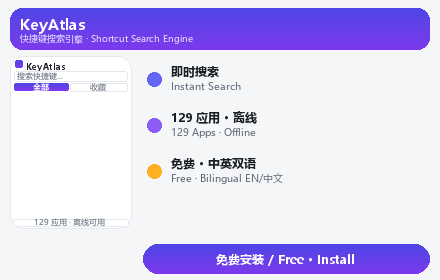
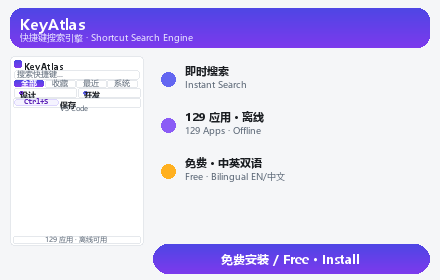
v6: 小宣传图中等密度重构 — popup含分类+快捷键，饱满不拥挤
- popup scale 0.32→0.35 (133×189px)，增加实质内容
- 新增: 4个标签页 + 1行2个分类块(设计/开发) + 1个快捷键卡(Ctrl+S)
- feature字号 11/9pt适中，行高40+间距6
- §13 自检10项全通过后交付

diff --git a/scripts/generate-store-promo.py b/scripts/generate-store-promo.py
@@ -259,96 +259,129 @@ def popup_mock(draw, img, x, y, scale=1.0, lang="zh"):
 
 
 # ── Small Promo Tile (440 × 280) — BILINGUAL ─────────────────
-# FIX v5: Ultra-clean mini-popup (no noisy category/shortcut internals),
-#   better spacing, crisper visual hierarchy.
+# FIX v6: Balanced density — popup has real content (cats + shortcut),
+#   not empty like v5, not noisy like v4. Tight but breathable.
 
 def small_promo_bilingual():
     W, H = 440, 280
     img = Image.new("RGB", (W, H), COLORS["bg"])
     d = ImageDraw.Draw(img)
 
-    # ── banner (compact gradient) ──
-    bh = 42
+    # ── banner ──
+    bh = 40
     gradient_rect(img, d, (10, 8, W - 10, 8 + bh), COLORS["grad1"], COLORS["grad2"], radius=12)
     text(d, (20, 14), "KeyAtlas", fill="white", f=font(15, bold=True))
-    text(d, (20, 32), "快捷键搜索引擎 · Shortcut Search Engine", fill="#e9e7ff", f=font(9))
+    text(d, (20, 31), "快捷键搜索引擎 · Shortcut Search Engine", fill="#e9e7ff", f=font(9))
 
-    # ── ultra-clean mini popup (left side) — only recognizable shell ──
-    # No category grid, no shortcut cards — just header + search + tabs + status
-    px, py, pscale = 10, 56, 0.32   # 122 × 173 px — slightly larger but cleaner inside
-    pw, ph = int(380 * pscale), int(540 * pscale)
+    # ── popup mock (medium density) — scale 0.35 = 133 × 189 px ──
+    px, py, sc = 10, 56, 0.35
+    pw, ph = int(380 * sc), int(540 * sc)   # 133 × 189
+
     # outer shell
-    card(d, (px, py, px + pw, py + ph), radius=14, shadow=False)
+    card(d, (px, py, px + pw, py + ph), radius=int(14 * sc), shadow=False)
 
-    # logo block (gradient square)
-    lx, ly = px + int(16 * pscale), py + int(14 * pscale)
-    ls = int(28 * pscale)
-    gradient_rect(img, d, (lx, ly, lx + ls, ly + ls), COLORS["grad1"], COLORS["grad2"],
-                  radius=int(6 * pscale))
-    # brand name + tagline
-    bn = max(9, int(15 * pscale))
-    bt = max(7, int(9 * pscale))
-    text(d, (lx + ls + int(10 * pscale), ly + int(2 * pscale)), "KeyAtlas",
-         f=font(bn, bold=True))
-    text(d, (lx + ls + int(10 * pscale), ly + bn + int(4 * pscale)),
-         "快捷键搜索引擎", fill=COLORS["sub"], f=font(bt))
+    # --- header: logo + brand + tagline ---
+    hx = px + int(14 * sc)
+    hy = py + int(12 * sc)
+    ls = int(24 * sc)                       # logo size
+    gradient_rect(img, d, (hx, hy, hx + ls, hy + ls), COLORS["grad1"], COLORS["grad2"],
+                  radius=int(6 * sc))
+    bn_f = max(9, int(15 * sc))             # brand name font
+    bt_f = max(7, int(9 * sc))              # tagline font
+    text(d, (hx + ls + int(8 * sc), hy + int(1 * sc)), "KeyAtlas", f=font(bn_f, bold=True))
+    text(d, (hx + ls + int(8 * sc), hy + bn_f + int(3 * sc)),
+         "快捷键搜索引擎", fill=COLORS["sub"], f=font(bt_f))
 
-    # search bar
-    sby = ly + ls + int(12 * pscale)
-    sbh = int(34 * pscale)
-    card(d, (px + int(14 * pscale), sby, px + pw - int(14 * pscale), sby + sbh),
-         fill=COLORS["surface"], radius=int(10 * pscale), shadow=False)
-    text(d, (px + int(24 * pscale), sby + sbh // 2), "搜索快捷键...",
-         fill=COLORS["sub"], f=font(max(8, int(12 * pscale))), anchor="lm")
+    # --- search bar ---
+    sby = hy + ls + int(8 * sc)
+    sbh = int(26 * sc)
+    card(d, (px + int(12 * sc), sby, px + pw - int(12 * sc), sby + sbh),
+         fill=COLORS["surface"], radius=int(9 * sc), shadow=False)
+    text(d, (px + int(20 * sc), sby + sbh // 2), "搜索快捷键...",
+         fill=COLORS["sub"], f=font(max(8, int(11 * sc))), anchor="lm")
 
-    # tab row (just 2 visible tabs to avoid crowding)
-    ty = sby + sbh + int(8 * pscale)
-    th = int(26 * pscale)
-    tw_tab = (pw - int(28 * pscale)) // 2
-    # active tab (gradient)
-    gradient_rect(img, d, (px + int(14 * pscale), ty,
-                           px + int(14 * pscale) + tw_tab - int(6 * pscale), ty + th),
-                  COLORS["grad1"], COLORS["grad2"], radius=int(8 * pscale))
-    text(d, (px + int(14 * pscale) + (tw_tab - int(6 * pscale)) // 2, ty + th // 2),
-         "全部", fill="white", f=font(max(8, int(11 * pscale)), bold=True), anchor="mm")
-    # inactive tab
-    card(d, (px + int(14 * pscale) + tw_tab + int(2 * pscale), ty,
-             px + pw - int(14 * pscale), ty + th),
-         fill=COLORS["surface"], radius=int(8 * pscale), shadow=False)
-    text(d, (px + int(14 * pscale) + tw_tab + int(2 * pscale) + (pw - int(28 * pscale) - tw_tab) // 2,
-             ty + th // 2),
-         "收藏", fill=COLORS["sub"], f=font(max(8, int(11 * pscale))), anchor="mm")
+    # --- tabs (4 compressed) ---
+    ty = sby + sbh + int(5 * sc)
+    th = int(20 * sc)
+    tw_t = (pw - int(24 * sc)) // 4
+    tab_labels = ["全部", "收藏", "最近", "系统"]
+    for i, tl in enumerate(tab_labels):
+        tx = px + int(12 * sc) + i * tw_t
+        if i == 0:
+            gradient_rect(img, d, (tx, ty, tx + tw_t - int(4 * sc), ty + th),
+                          COLORS["grad1"], COLORS["grad2"], radius=int(7 * sc))
+            tf_c = "white"
+        else:
+            card(d, (tx, ty, tx + tw_t - int(4 * sc), ty + th),
+                 fill=COLORS["surface"], radius=int(7 * sc), shadow=False)
+            tf_c = COLORS["sub"]
+        text(d, (tx + (tw_t - int(4 * sc)) // 2, ty + th // 2), tl,
+             fill=tf_c, f=font(max(8, int(10 * sc)), bold=(i == 0)), anchor="mm")
 
-    # status bar at bottom
-    bby = py + ph - int(30 * pscale)
-    card(d, (px + int(12 * pscale), bby, px + pw - int(12 * pscale), py + ph - int(8 * pscale)),
-         fill=COLORS["surface"], radius=int(8 * pscale), shadow=False)
-    text(d, (px + pw // 2, bby + int(10 * pscale)), "129 应用 · 离线可用",
-         fill=COLORS["sub"], f=font(max(8, int(9 * pscale))), anchor="mm")
+    # --- category row (only 1 row × 2 cols — saves space) ---
+    cy = ty + th + int(5 * sc)
+    ch_cat = int(28 * sc)
+    cw_cat = (pw - int(28 * sc)) // 2
+    cat_data = [("设计", "40", COLORS["purple"]), ("开发", "26", COLORS["primary"])]
+    for i, (nm, cnt, clr) in enumerate(cat_data):
+        cx = px + int(14 * sc) + i * (cw_cat + int(6 * sc))
+        card(d, (cx, cy, cx + cw_cat, cy + ch_cat), fill=COLORS["surface"],
+             radius=int(8 * sc), shadow=False)
+        # colored accent bar
+        bar_t = cy + max(3, int(6 * sc))
+        bar_b = cy + ch_cat - max(3, int(6 * sc))
+        if bar_b > bar_t + 2:
+            d.rounded_rectangle((cx + 5, bar_t, cx + 9, bar_b), radius=2, fill=clr)
+        txt_x = cx + int(18 * sc)
+        text(d, (txt_x, cy + int(5 * sc)), nm,
+             f=font(max(8, int(11 * sc)), bold=True))
+        text(d, (txt_x, cy + ch_cat - int(13 * sc)),
+             cnt + "款", fill=COLORS["sub"], f=font(max(7, int(9 * sc))))
 
-    # ── feature bullets (right of popup) — plain text lines, NO card wrappers ──
-    rx = px + pw + 12   # 12px gap after popup
+    # --- shortcut card (just 1) ---
+    sky = cy + ch_cat + int(5 * sc)
+    sh = int(26 * sc)
+    card(d, (px + int(10 * sc), sky, px + pw - int(10 * sc), sky + sh),
+         fill=COLORS["surface"], radius=int(8 * sc), shadow=False)
+    kw = kbd_badge(d, px + int(14 * sc), sky + int(5 * sc), "Ctrl+S",
+                   sh - int(10 * sc), f=mono(max(8, int(11 * sc))))
+    text(d, (px + int(14 * sc) + kw + int(6 * sc), sky + int(5 * sc)),
+         "保存", f=font(max(8, int(11 * sc)), bold=True))
+    text(d, (px + int(14 * sc) + kw + int(6 * sc), sky + sh - int(13 * sc)),
+         "VS Code", fill=COLORS["sub"], f=font(max(7, int(9 * sc))))
+
+    # --- status bar ---
+    sty = py + ph - int(28 * sc)
+    card(d, (px + int(10 * sc), sty, px + pw - int(10 * sc), py + ph - int(6 * sc)),
+         fill=COLORS["surface"], radius=int(7 * sc), shadow=False)
+    text(d, (px + pw // 2, sty + int(9 * sc)), "129 应用 · 离线可用",
+         fill=COLORS["sub"], f=font(max(7, int(9 * sc))), anchor="mm")
+
+    # ── feature bullets (right side) ──
+    rx = px + pw + 14          # start after popup + gap
     features = [
         ("即时搜索", "Instant Search", COLORS["primary"]),
         ("129 应用 · 离线", "129 Apps · Offline", COLORS["violet"]),
         ("免费 · 中英双语", "Free · Bilingual EN/中文", COLORS["accent"]),
     ]
-    line_h = 38
-    gap = 8
+    line_h = 40
+    gap = 6
     for i, (cn, en, clr) in enumerate(features):
         fy = py + 4 + i * (line_h + gap)
-        if fy + line_h > H - 40:
+        if fy + line_h > H - 38:
             break
-        # colored dot indicator
+        # colored dot
         d.ellipse((rx + 4, fy + 12, rx + 18, fy + 26), fill=clr)
-        text(d, (rx + 28, fy + 3), cn, f=font(12, bold=True))
-        text(d, (rx + 28, fy + 19), en, fill=COLORS["sub"], f=font(10))
+        # text lines
+        text(d, (rx + 28, fy + 3), cn, f=font(11, bold=True))
+        text(d, (rx + 28, fy + 18), en, fill=COLORS["sub"], f=font(9))
 
     # ── bottom CTA strip ──
     cta_y = H - 36
     cta_h = 30
-    gradient_rect(img, d, (rx, cta_y, W - 10, cta_y + cta_h), COLORS["grad1"], COLORS["grad2"], radius=14)
-    cta_cx = (rx + W - 10) // 2
+    gradient_rect(img, d, (rx - 4, cta_y, W - 10, cta_y + cta_h),
+                  COLORS["grad1"], COLORS["grad2"], radius=14)
+    cta_cx = ((rx - 4) + W - 10) // 2
     text(d, (cta_cx, cta_y + cta_h // 2), "免费安装 / Free · Install",
          fill="white", f=font(12, bold=True), anchor="mm")
 
